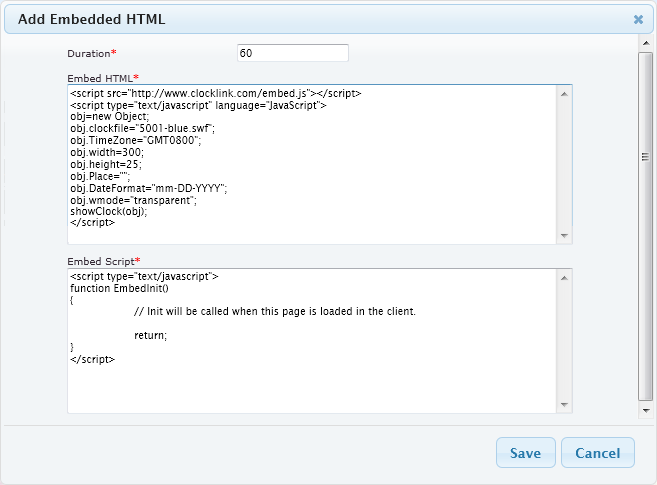
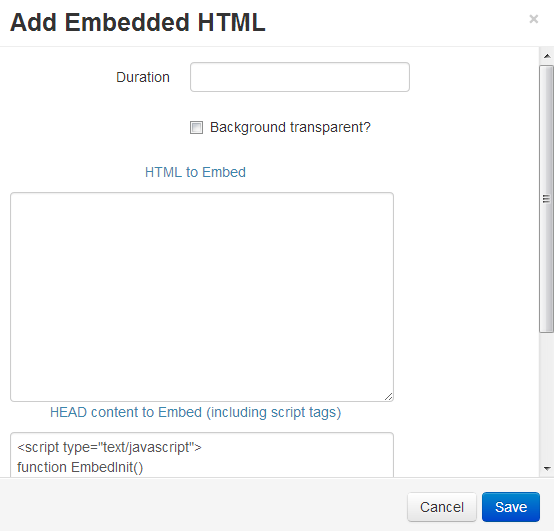
[manual] Counter/Web and Embedded Pages

diff --git a/server/manual/content/layout/content_counter.php b/server/manual/content/layout/content_counter.php
@@ -1,48 +1,68 @@
+<?php
+/*
+ * Xibo - Digital Signage - http://www.xibo.org.uk
+ * Copyright (C) 2006-2013 Daniel Garner
+ *
+ * This file is part of Xibo.
+ *
+ * Xibo is free software: you can redistribute it and/or modify
+ * it under the terms of the GNU Affero General Public License as published by
+ * the Free Software Foundation, either version 3 of the License, or
+ * any later version. 
+ *
+ * Xibo is distributed in the hope that it will be useful,
+ * but WITHOUT ANY WARRANTY; without even the implied warranty of
+ * MERCHANTABILITY or FITNESS FOR A PARTICULAR PURPOSE.  See the
+ * GNU Affero General Public License for more details.
+ *
+ * You should have received a copy of the GNU Affero General Public License
+ * along with Xibo.  If not, see <http://www.gnu.org/licenses/>.
+ */ 
+defined('XIBO') or die("Sorry, you are not allowed to directly access this page.<br /> Please press the back button in your browser.");
+?>
+<h1 id="Counter">Counter</h1>
 
-	<a name="Counter" id="Counter"></a><h2>Counter</h2>
+<p>The counter module provides an on screen counter which counts up or down in response to key presses (or to key presses generated by a wireless presenter style remote control - often used to control PowerPoint presentations).</p>
 
-	<p>The counter module provides an on screen counter which counts up or down in response to key presses (or to key presses 
-	generated by a wireless presenter style remote control - often used to control PowerPoint presentations).</p>
-	<p>It was originally written to cater for paper ticket systems where customers entering a business premises take a number from a 
-	dispenser and wait for their number to be called before obtaining a product or service.</p>
-	<p>In its most basic form, there is no need to add a Counter media type at all. From v1.3.0 of the Python client, you can 
-	simply press Page Up or Page Down keys on the client machine (or via a wireless presenter style remote) and a popup 
-	overlay will appear displaying the current counter number.</p>
+<p>It was originally written to cater for paper ticket systems where customers entering a business premises take a number from a dispenser and wait for their number to be called before obtaining a product or service.</p>
 
-
-	<p>This popup overlay can be styled and configured using the configuration variables in the client site.cfg file as follows:</p>
-	<ul>
-		<li>nextScanCode=112 - Keyboard scan code used to increment the counter</li>
-		<li>resetScanCode=0 - Keyboard scan code used to zero the counter</li>
-		<li>prevScanCode=117 - Keyboard scan code used to decrement the counter</li>
-		<li>maxCount=99 - Number the counter should count up to or down from</li>
-		<li>osdBackColour=000000 - HTML/Hex colour for the popup background</li>
-		<li>osdBackOpacity=0.7 - How opaic the background of the popup should be</li>
-		<li>osdFontSize=270 - Font size of the number displayed in the popup</li>
-		<li>osdFontColour=ffffff - Font colour of the number displayed in the popup in HTML/Hex</li>
-		<li>osdWidthPercent=40 - Percentage of the width of the screen that the popup should occupy</li>
-		<li>osdTimeOut=5000 - How many milliseconds the popup should be displayed for</li>
-	</ul>
+<p class="alert alert-danger">The Counter module is only supported by the Ubuntu Display Client</p>
 	
-	<p>If you are not sure what scan codes there are, you can press "i" then "l" with the client running. That will popup the on-screen 
-	logging. Any key press that is not currently being used will generate a log message with the scan code for that key - so you 
-	can get the code you need and aoter the client configuration.</p>
-	<p>You can also embed the counter number in a region. If you choose to do that, you can optionally disable the popup overlay 
-		whilst that region/media item is on the screen.</p>
-	<ul>
-		<li>Click the "Add Counter" icon</li>
-		<li>A new dialogue will appear: <br />
-	
-		<p><img alt="Ss_layout_designer_add_counter" src="content/layout/Ss_layout_designer_add_counter.png"
-		style="display: block; text-align: center; margin-left: auto; margin-right: auto"
-		width="657" height="410"></p></li>		
-	
-		<li>The "Popup Notification" box enables or disables the popup overlay. Leaving the box unticked will disable the popup 
-			while this media item is being shown on screen.</li>
-		<li>The "Duration" box is the number of seconds the counter should be shown on screen for.</li>
-		<li>The final box is a WYSIWYG HTML editor. You'll see a \[Counter\] tag. You can style that tag however you want 
-			the counter value to be shown on the screen. You can also add additional text before and/or after the tag which 
-			will also be displayed.</li>
-	</ul>
+<p>In its most basic form, there is no need to add a Counter media type at all. From v1.3.0 of the Ubuntu client, you can simply press Page Up or Page Down keys on the client machine (or via a wireless presenter style remote) and a pop-up overlay will appear displaying the current counter number.</p>
 
+<p>This pop-up overlay can be styled and configured using the configuration variables in the client site.cfg file as follows:</p>
 
+<ul>
+	<li>nextScanCode=112 - Keyboard scan code used to increment the counter</li>
+	<li>resetScanCode=0 - Keyboard scan code used to zero the counter</li>
+	<li>prevScanCode=117 - Keyboard scan code used to decrement the counter</li>
+	<li>maxCount=99 - Number the counter should count up to or down from</li>
+	<li>osdBackColour=000000 - HTML/Hex colour for the pop-up background</li>
+	<li>osdBackOpacity=0.7 - How opaque the background of the pop-up should be</li>
+	<li>osdFontSize=270 - Font size of the number displayed in the pop-up</li>
+	<li>osdFontColour=ffffff - Font colour of the number displayed in the pop-up in HTML/Hex</li>
+	<li>osdWidthPercent=40 - Percentage of the width of the screen that the pop-up should occupy</li>
+	<li>osdTimeOut=5000 - How many milliseconds the pop-up should be displayed for</li>
+</ul>
+	
+<p>If you are not sure what scan codes there are, you can press "i" then "l" with the client running. That will pop-up the on-screen 
+logging. Any key press that is not currently being used will generate a log message with the scan code for that key - so you 
+can get the code you need and another the client configuration.</p>
+
+<h2>The Counter Form</h2>
+<p><img class="img-thumbnail" alt="Add Counter Form" src="content/layout/Ss_layout_designer_add_counter.png"></p></li>
+
+<dl class="dl-horizontal">
+	<dt>Duration</dt>
+	<dd>The duration in seconds that this item should remain in the Region.</dd>
+</dl>
+
+<dl class="dl-horizontal">
+	<dt>Pop-up Notification?</dt>
+	<dd>Enables or disables the pop-up overlay. Leaving the box un-ticked will disable the pop-up while this media item is being shown on screen.</dd>
+</dl>
+
+<dl class="dl-horizontal">
+	<dt>Template</dt>
+	<dd>Editor for defining the template that should be used when displaying this Counter. The [Counter] tag should be used to indicate where the current Counter value should appear.</dd>
+</dl>

diff --git a/server/manual/content/layout/content_embedded.php b/server/manual/content/layout/content_embedded.php
@@ -1,27 +1,69 @@
+<?php
+/*
+ * Xibo - Digital Signage - http://www.xibo.org.uk
+ * Copyright (C) 2006-2013 Daniel Garner
+ *
+ * This file is part of Xibo.
+ *
+ * Xibo is free software: you can redistribute it and/or modify
+ * it under the terms of the GNU Affero General Public License as published by
+ * the Free Software Foundation, either version 3 of the License, or
+ * any later version. 
+ *
+ * Xibo is distributed in the hope that it will be useful,
+ * but WITHOUT ANY WARRANTY; without even the implied warranty of
+ * MERCHANTABILITY or FITNESS FOR A PARTICULAR PURPOSE.  See the
+ * GNU Affero General Public License for more details.
+ *
+ * You should have received a copy of the GNU Affero General Public License
+ * along with Xibo.  If not, see <http://www.gnu.org/licenses/>.
+ */ 
+defined('XIBO') or die("Sorry, you are not allowed to directly access this page.<br /> Please press the back button in your browser.");
+?>
+<h1 id="embedded">Embedded Content</h1>
+<p>The Embedded Content module allows HTML and JavaScript to be embedded into a Layout Region. This allows for custom enhancements to be made to <?php echo PRODUCT_NAME; ?> without modifying the core application. Examples of where this might be useful are displaying a Clock or Weather region.</p>
 
-	<a name="embedded" id="embedded"></a><h2>Embedded HTML</h2>
+<p><img class="img-thumbnail" alt="Embedded Content Form" src="content/layout/Ss_layout_designer_add_embedded.png"></p>
 
+<dl class="dl-horizontal">
+	<dt>Duration</dt>
+	<dd>The duration in seconds that this item should remain in the Region.</dd>
+</dl>
 
+<dl class="dl-horizontal">
+	<dt>Transparent?</dt>
+	<dd>Should the item be rendered with a transparent background? <?php echo PRODUCT_NAME; ?> will try its best to do this when checked, however it may be overridden by the custom content.</dd>
+</dl>
 
-	<p>In <?php echo PRODUCT_NAME; ?> it is possible to embed html code as content in a region e.g. a clock or weather forcast</p>
-	<p>To get <?php echo PRODUCT_NAME; ?> to show embedded HTML with Active-X content, you would need to adjust the security settings of IE 
-	so that local files were allowed to run active content by default. This can be done in 
-	Tools -> Internet Options -> Advanced -> Security -> "Allow Active content to run in files on My Computer"</p>
+<dl class="dl-horizontal">
+	<dt>HTML Content</dt>
+	<dd>The HTML that should be loaded into the Region.</dd>
+</dl>
 
-	<p>Add an Embedded</p>
+<dl class="dl-horizontal">
+	<dt>HEAD content</dt>
+	<dd>Any content to put in the HEAD of the document - JavaScript should be wrapped in <code>script</code> tags. <?php echo PRODUCT_NAME; ?> will automatically add jQuery.</dd>
+</dl>
 
-	<ul>
-		<li>Click the "Add Embedded" icon</li>
-		<li>A new dialogue will appear:
+<p>The <code>EmbedInit()</code> method will be called by the Display Client and can be used to safely start any custom JavaScript at the appropriate time. The method is defaulted on any new Embedded Media Item.</p>
 
-		<p><img alt="Ss_layout_designer_add_embedded" src="content/layout/Ss_layout_designer_add_embedded.png"
-		style="display: block; text-align: center; margin-left: auto; margin-right: auto"
-		width="678" height="485"></p></li>
+<pre>
+	&lt;script type="text/javascript"&gt;
+	function EmbedInit()
+	{
+		// Init will be called when this page is loaded in the client.
+		
+		return;
+	}
+	&lt;/script&gt;
+</pre>
 
-		<li>Enter the embedded html source. The example given above is for a digital Date/Time Display.<p>
+<p class="alert alert-warning">Show embedded HTML with Active-X content on the Windows Display Client the security settings of IE so that local files were allowed to run active content by default. This can be done in Tools -> Internet Options -> Advanced -> Security -> "Allow Active content to run in files on My Computer"</p>
  
-<script src="http://www.clocklink.com/embed.js"></script>
-<script type="text/javascript" language="JavaScript">
+<h3>Digital Clock Example</h3>
+<pre>
+&lt;script src="http://www.clocklink.com/embed.js">&lt;/script&gt;
+&lt;script type="text/javascript" language="JavaScript"&gt;
 obj=new Object;
 obj.clockfile="5001-blue.swf";
 obj.TimeZone="GMT0800";
@@ -31,21 +73,12 @@ obj.Place="";
 obj.DateFormat="mm-DD-YYYY";
 obj.wmode="transparent";
 showClock(obj);
-</script>
-</p></li>
+&lt;/script&gt;
+</pre>
 
-	<li>Click "Save"
-	<p>Below is another example to display an analogue clock face:</p>
+<h3>Analogue Clock Example</h3>
 
-  	<table border="0" cellspacing="0" cellpadding="0">
-    <tr>
-      <td align="center">
-      <embed src="http://www.worldtimeserver.com/clocks/wtsclock001.swf?color=FF9900&wtsid=SG" width="200" height="200" 
-      wmode="transparent" type="application/x-shockwave-flash" />
-      </td>
-   	</tr>
-  	</table>
-
-	<p>You can view the script source by right click on the page and select "View source"</p>
-	</li></ul>
-
+<pre>
+	&lt;embed src="http://www.worldtimeserver.com/clocks/wtsclock001.swf?color=FF9900&wtsid=SG" width="200" height="200" wmode="transparent" type="application/x-shockwave-flash" /&gt;
+</pre>
+<p class="alert alert-danger">This example uses Flash</p>

diff --git a/server/manual/content/layout/content_webpage.php b/server/manual/content/layout/content_webpage.php
@@ -1,33 +1,60 @@
+<?php
+/*
+ * Xibo - Digital Signage - http://www.xibo.org.uk
+ * Copyright (C) 2006-2013 Daniel Garner
+ *
+ * This file is part of Xibo.
+ *
+ * Xibo is free software: you can redistribute it and/or modify
+ * it under the terms of the GNU Affero General Public License as published by
+ * the Free Software Foundation, either version 3 of the License, or
+ * any later version. 
+ *
+ * Xibo is distributed in the hope that it will be useful,
+ * but WITHOUT ANY WARRANTY; without even the implied warranty of
+ * MERCHANTABILITY or FITNESS FOR A PARTICULAR PURPOSE.  See the
+ * GNU Affero General Public License for more details.
+ *
+ * You should have received a copy of the GNU Affero General Public License
+ * along with Xibo.  If not, see <http://www.gnu.org/licenses/>.
+ */ 
+defined('XIBO') or die("Sorry, you are not allowed to directly access this page.<br /> Please press the back button in your browser.");
+?>
+<h1 id="Webpage">Web Page</h1>
+<p>The Web Page module allows an entire Web Page to be embedded inside a Region on a Layout.</p>
 
-	<a name="Webpage" id="Webpage"></a><h2>Web Page</h2>
+<p>There is support for scaling and offsetting the target web page inside the Region so the particular section of the web page can be displayed.</p>
 
-	
+<p><img class="img-thumbnail" alt="Webpage Form" src="content/layout/Ss_layout_designer_add_webpage.png"></p>
 
-	<h3> Webpage scale functionality in Windows Client</h3>
-	<p>In <?php echo PRODUCT_NAME; ?> it is possible to show a webpage in a region. Because websites are not build for showing on a big screen, 
-	it has a scale functionality in which you can show the webpage in a larger or smaller scale. This is great for 
-	showing websites that are too big or too small for the region.</p>
+<dl class="dl-horizontal">
+	<dt>Link</dt>
+	<dd>The URL of the Web Page - including http://</dd>
+</dl>
 
-	<p>Add a webpage</p>
+<dl class="dl-horizontal">
+	<dt>Duration</dt>
+	<dd>The duration in seconds that this item should remain in the Region.</dd>
+</dl>
 
-	<ul>
-		<li>Click the "Add Webpage" icon</li>
-		<li>A new dialogue will appear:
+<dl class="dl-horizontal">
+	<dt>Offset Top</dt>
+	<dd>The top position for the page to start.</dd>
+</dl>
 
-		<p><img alt="Ss_layout_designer_add_webpage" src="content/layout/Ss_layout_designer_add_webpage.png"
-		style="display: block; text-align: center; margin-left: auto; margin-right: auto"
-		width="477" height="232"></p></li>
+<dl class="dl-horizontal">
+	<dt>Offset Left</dt>
+	<dd>The left position for the page to start.</dd>
+</dl>
 
-		<li>Enter all the required information</li>
-		<ul>
-      		<li><strong>Link:</strong><br />The linked content can be either the full webpage, or an ID defined frame within the webpage
-      		e.g. http://www.intl.onkyo.com/#rotateim</li>
-      		<li><strong>Duration:</strong><br />Display duration in seconds</li>
-      		<li><strong>Offset Top:</strong><br />Webpage top cropping region for display</li>
-      		<li><strong>Offset Left:</strong><br />Webpage left cropping region for display</li>
-      		<li><strong>Scale Percentage:</strong><br />Scale the original webpage for display (larger or smaller)</li>
-     		 <li><strong>Backgroup Transparency:</strong><br />Set background to transparency (python only)</li>
-    	</ul>
-		<li>Click "Save"</li>
-	</ul>
-	
+<dl class="dl-horizontal">
+	<dt>Scale Percentage</dt>
+	<dd>The percentage zoom to apply to the web page.</dd>
+</dl>
+
+<dl class="dl-horizontal">
+	<dt>Transparent?</dt>
+	<dd>Should the web page be rendered with a transparent background? <?php echo PRODUCT_NAME; ?> will try its best to do this when checked, however it cannot be supported on some web pages.</dd>
+</dl>
+
+<p class="alert alert-warning">Web Pages are not cached by the Display Client and will not operate when disconnected from the network.</p>
